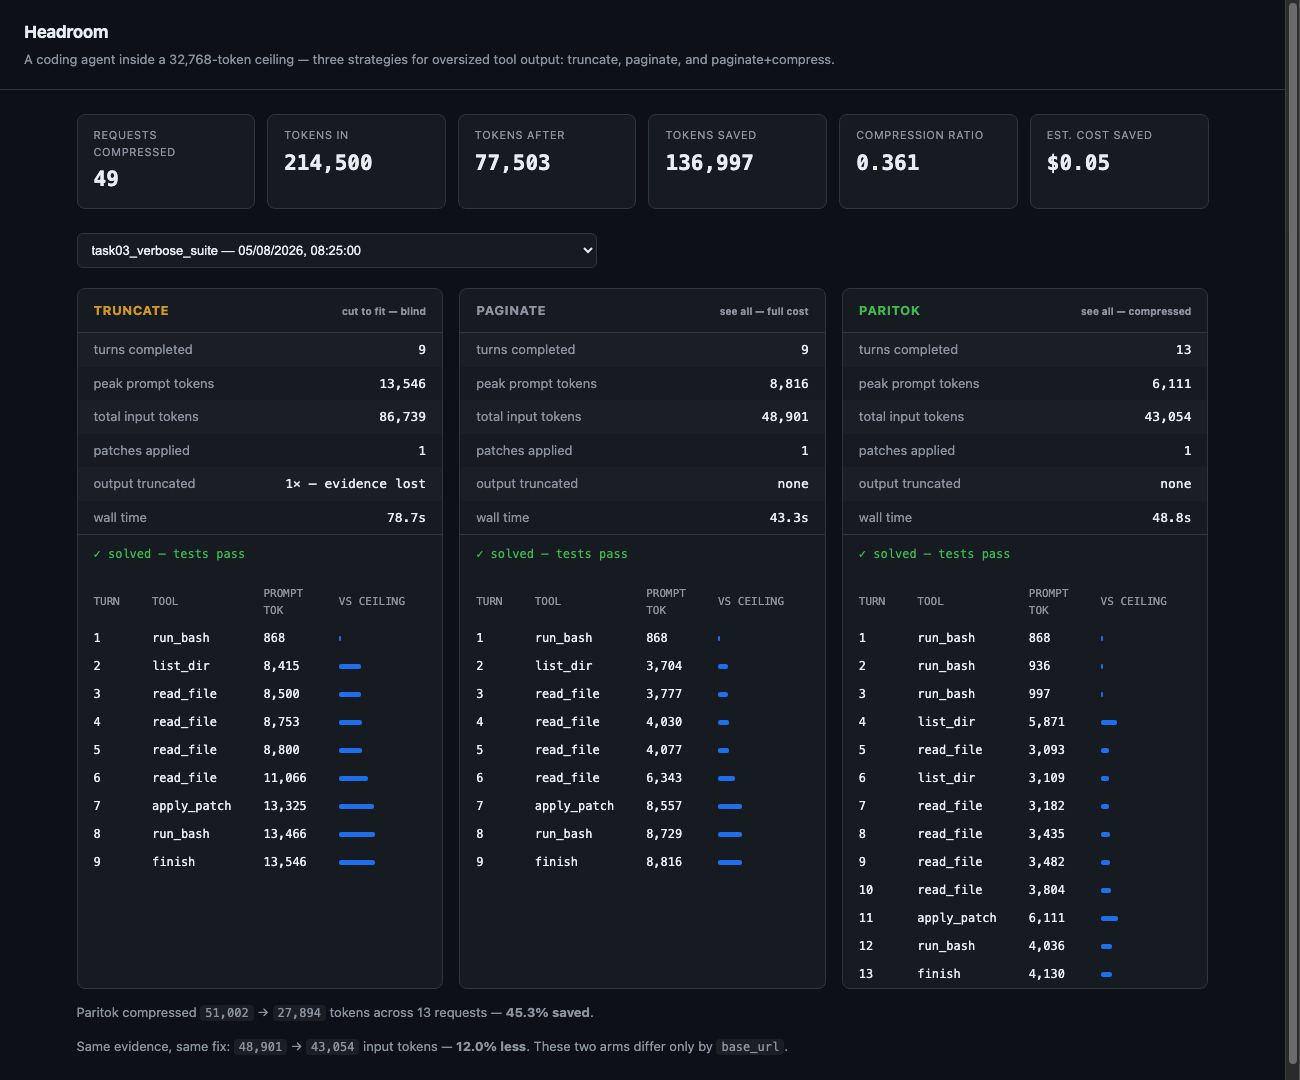
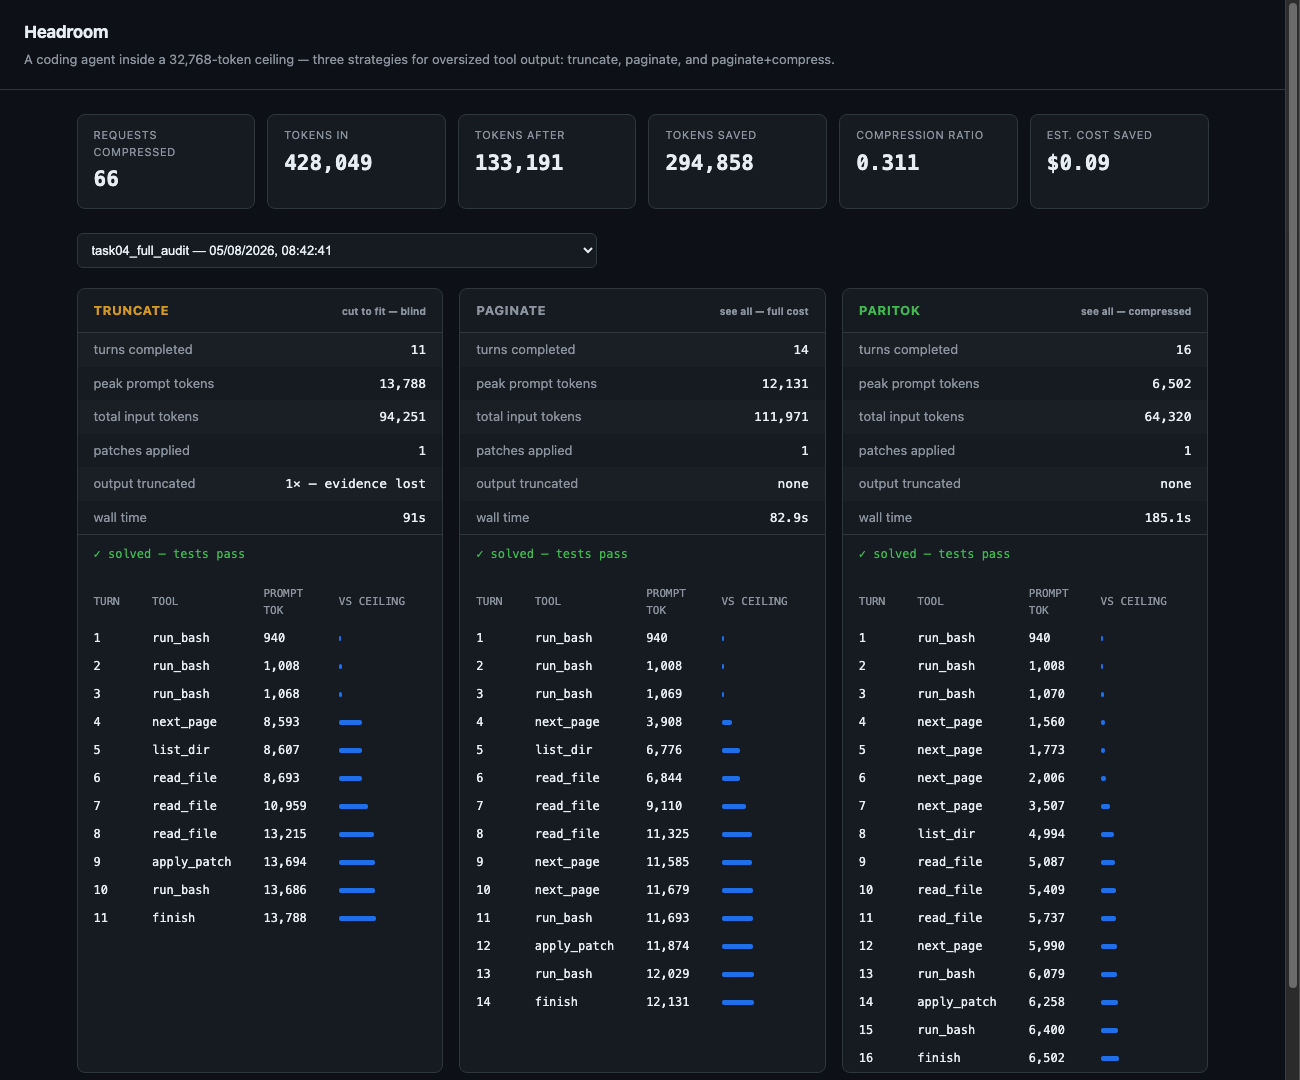
Surface uncompressed-equivalent context, sync docs to 4 tasks
Adds a "peak sent" column: the payload size handed to the proxy before
compression. On the paritok arm that is what the conversation would have
cost uncompressed, which is the number that says whether compression is
load-bearing or merely economical.

Task 4 makes the mechanism legible: the compressed arm peaked at 26,222
tokens sent against 6,502 billed, and worked through more pages than the
uncompressed arm managed, while sitting at a fifth of the ceiling.

Corrects a claim that did not survive the fourth task. "Truncation is not
even the cheap option" held on task 3 (77% more than pagination) but not
on task 4 (16% cheaper). Restated as: truncation is not *reliably* cheap,
and buys whatever it saves by discarding evidence.

Dashboard screenshot refreshed with all four tasks.

diff --git a/headroom/export.py b/headroom/export.py
@@ -30,12 +30,23 @@ def _outcome_cell(r: dict) -> str:
 ARM_ORDER = {"truncate": 0, "paginate": 1, "paritok": 2}
 
 
+def _peak_sent(store: Store, run_id: int) -> int:
+    """Largest payload handed to the proxy, before compression.
+
+    On the paritok arm this is what the conversation would have cost with no
+    compression. If it exceeds the ceiling on a run that succeeded, compression
+    wasn't a discount — it was the reason the run completed.
+    """
+    return max((t["estimated_prompt_tokens"] or 0 for t in store.turns_for_run(run_id)),
+               default=0)
+
+
 def results_table(store: Store) -> str:
     lines = [
-        "| Task | Strategy | Outcome | Turns | Peak tokens | Total input tokens | Truncated | Tests |",
-        "|---|---|---|---:|---:|---:|---:|:--:|",
+        "| Task | Strategy | Outcome | Turns | Peak billed | Peak sent | Total input | Trunc | Tests |",
+        "|---|---|---|---:|---:|---:|---:|---:|:--:|",
     ]
-    savings, paired = [], []
+    savings, paired, overs = [], [], []
     for pair in reversed(store.pairs()):
         runs = sorted(store.runs_for_pair(pair["pair_id"]),
                       key=lambda r: ARM_ORDER.get(r["strategy"] or "paginate", 9))
@@ -46,12 +57,17 @@ def results_table(store: Store) -> str:
             arm = r["strategy"] or ("paritok" if r["paritok"] else "paginate")
             arm_label = f"**{arm}**" if arm == "paritok" else arm
             trunc = r["truncations"] or 0
+            sent = _peak_sent(store, r["id"])
+            # Mark the case where the uncompressed payload wouldn't have fit.
+            sent_cell = f"**{sent:,}** ⚠" if sent > 32_768 else f"{sent:,}"
             lines.append(
                 f"| `{r['task']}` | {arm_label} | {_outcome_cell(r)} | {r['turns_completed']} | "
-                f"{r['peak_prompt_tokens']:,} | {r['total_prompt_tokens']:,} | "
+                f"{r['peak_prompt_tokens']:,} | {sent_cell} | {r['total_prompt_tokens']:,} | "
                 f"{str(trunc) + '×' if trunc else '—'} | "
                 f"{'✅' if r['tests_passed'] == 1 else '❌'} |"
             )
+            if arm == "paritok" and sent > 32_768 and r["outcome"] == "solved":
+                overs.append((r["task"], sent, r["peak_prompt_tokens"]))
         # paginate vs paritok is the clean attribution: identical agents,
         # identical evidence, only base_url differs.
         pg, pk = by_strategy.get("paginate"), by_strategy.get("paritok")

diff --git a/headroom/ab.py b/headroom/ab.py
@@ -152,6 +152,17 @@ def format_comparison(pair: dict) -> str:
                 f"{st['total_requests']} requests ({pct:.1f}% saved)."
             )
 
+    # If the uncompressed payload exceeded the ceiling while the run still
+    # succeeded, compression was not a discount — it was the reason it ran.
+    pk = arms.get("paritok")
+    if pk and pk.get("peak_sent_tokens", 0) > 32_768 and pk["outcome"] == "solved":
+        lines.append(
+            f"\n  paritok carried a conversation whose uncompressed payload peaked at "
+            f"{pk['peak_sent_tokens']:,} tokens — above the {32_768:,} ceiling — while "
+            f"never being billed more than {pk['peak_prompt_tokens']:,}. Without "
+            f"compression this run could not have completed."
+        )
+
     # The comparison that matters: same evidence seen, different cost.
     if "paginate" in arms and "paritok" in arms:
         a, b = arms["paginate"]["total_prompt_tokens"], arms["paritok"]["total_prompt_tokens"]

diff --git a/headroom/agent.py b/headroom/agent.py
@@ -259,6 +259,11 @@ class Agent:
             "peak_prompt_tokens": self.gov.peak_prompt_tokens,
             "overflow_at_turn": self.gov.overflowed_at_turn,
             "overflow_tokens": self.gov.overflow_tokens,
+            # What the conversation would have cost with no compression, i.e.
+            # the size of the payload we handed the proxy. If this exceeds the
+            # ceiling while the run succeeds, compression is load-bearing rather
+            # than merely economical.
+            "peak_sent_tokens": max((t.estimated_prompt_tokens for t in self.gov.turns), default=0),
             "tests_passed": tests_passed,
             "patches_applied": self.tools.patches_applied,
             "truncations": self.tools.truncations,

diff --git a/README.md b/README.md
@@ -34,37 +34,46 @@ against a pristine copy of the repo each time, and reports what changed.
 We set out to show an agent that dies without compression and survives with it.
 **That is not what the data says, and we are reporting what the data says.**
 
-**1. Compression cuts input tokens roughly in half, with identical outcomes.**
-Against the `paginate` arm — same agent, same evidence, differing only by
-`base_url` — the compressed arm used **12–52% fewer input tokens** (mean 38%),
-and **45–81% less** measured at the proxy itself. All three strategies solved all
-three tasks, applied the same patches, and ended with the tests green.
-Compression cost a few extra turns.
+**1. Compression cuts input tokens by a third to a half, with identical
+outcomes.** Against the `paginate` arm — same agent, same evidence, differing
+only by `base_url` — the compressed arm used **12–52% fewer input tokens**
+(mean 39%), and **45–81% less** measured at the proxy itself. Across 12 runs on
+4 tasks, **every arm solved every task**, applied the same patches, and ended
+with the tests green. Compression cost a few extra turns and some wall time.
 
-**2. A competent agent doesn't overflow 32K as easily as we assumed.** It greps
-instead of reading exhaustively and pipes verbose output through `head`. Breadth
-of codebase alone did not overflow the window — our 217KB, 20-module, three-bug
-task peaked at 11,994 tokens. Context engineering the agent already does for
-itself is doing a lot of the work people credit to compression.
+**2. A competent agent doesn't overflow 32K, and you can't easily make it.**
+It greps instead of reading exhaustively and pipes verbose output through `head`.
+Our 217KB, 20-module, three-bug task peaked at 11,994 tokens. We then built
+task 4 specifically to force an overflow — 462 failing cases across 41 pages,
+with a brief instructing the agent three separate times to page through all of
+them. **It stopped after about ten pages anyway**, formed a correct hypothesis,
+and fixed the bug. Agents do a lot of their own context management, robustly
+enough to resist instruction. Measure that before crediting a tool.
 
-**3. Truncation is not even the cheap option.** On task 3 the truncating arm used
-**86,739 input tokens against paginate's 48,901** — nearly double — *and* threw
-away evidence. Cutting a result to fit means the surviving chunk sits in context
-at full size on every subsequent turn, where pagination spends its tokens once.
-The strategy everyone reaches for first was the worst on both axes.
+**3. Truncation is not reliably the cheap option.** On task 3 the truncating arm
+burned **86,739 input tokens against pagination's 48,901** — 77% more — *and*
+discarded a tool result. On task 4 it did come out 16% cheaper, but again only
+by throwing evidence away. A truncated chunk sits in context at full size on
+every later turn; pagination spends its tokens once. The strategy everyone
+reaches for first is the one with the least predictable cost.
 
-**4. The one case that genuinely overflows is the case Paritok can't help with.**
-A single tool result larger than the window — 306 failing parameterised tests,
-~82,000 tokens from one `pytest` call — kills the run. But the hosted compressor
-**silently returns input verbatim above ~6,000 tokens**, so it declines exactly
-the blocks that cause the problem. Measured, reproducible, and detailed in
-[§4 of FINDINGS](docs/FINDINGS.md). Headroom works around it by paginating into
-~3,100-token pages that sit inside the band where compression works — which turns
-that task from a hard failure into a solved run.
+**4. Compression carries far more context than it's billed for.** On task 4 the
+compressed arm's payload peaked at **26,222 tokens sent against 6,502 billed** —
+it worked through more pages than the uncompressed arm managed, while sitting at
+a fifth of the ceiling. That is the mechanism working exactly as advertised.
+
+**5. The one case that genuinely overflows is the case Paritok can't help with.**
+A single tool result larger than the window — ~82,000 tokens from one `pytest`
+call — kills the run. But the hosted compressor **silently returns input verbatim
+above ~6,000 tokens**, so it declines exactly the blocks that cause the problem.
+Measured, reproducible, and detailed in [§4 of FINDINGS](docs/FINDINGS.md).
+Headroom works around it by paginating into ~3,100-token pages that sit inside
+the band where compression works — which turns that task from a hard failure into
+a solved run.
 
 So the honest summary: **Paritok is a substantial and reliable cost win on
-accumulated multi-turn context, and today it has a size ceiling that stops it
-being a capability unlock.** The workaround is cheap and it's in this repo.
+accumulated multi-turn context, and today a size ceiling stops it being a
+capability unlock.** The workaround is cheap and it's in this repo.
 
 ## Measured results
 
@@ -73,21 +82,24 @@ per arm. The agent is never told which arm it is in.
 
 <!-- RESULTS:START -->
 
-| Task | Strategy | Outcome | Turns | Peak tokens | Total input tokens | Truncated | Tests |
-|---|---|---|---:|---:|---:|---:|:--:|
-| `task01_report_mean` | truncate | ✓ solved | 9 | 7,112 | 30,648 | — | ✅ |
-| `task01_report_mean` | paginate | ✓ solved | 9 | 6,116 | 27,142 | — | ✅ |
-| `task01_report_mean` | **paritok** | ✓ solved | 9 | 2,079 | 13,225 | — | ✅ |
-| `task02_pipeline_triage` | truncate | ✓ solved | 15 | 12,208 | 92,518 | — | ✅ |
-| `task02_pipeline_triage` | paginate | ✓ solved | 15 | 11,994 | 91,167 | — | ✅ |
-| `task02_pipeline_triage` | **paritok** | ✓ solved | 17 | 5,306 | 43,808 | — | ✅ |
-| `task03_verbose_suite` | truncate | ✓ solved | 9 | 13,546 | 86,739 | 1× | ✅ |
-| `task03_verbose_suite` | paginate | ✓ solved | 9 | 8,816 | 48,901 | — | ✅ |
-| `task03_verbose_suite` | **paritok** | ✓ solved | 13 | 6,111 | 43,054 | — | ✅ |
+| Task | Strategy | Outcome | Turns | Peak billed | Peak sent | Total input | Trunc | Tests |
+|---|---|---|---:|---:|---:|---:|---:|:--:|
+| `task01_report_mean` | truncate | ✓ solved | 9 | 7,112 | 10,501 | 30,648 | — | ✅ |
+| `task01_report_mean` | paginate | ✓ solved | 9 | 6,116 | 9,075 | 27,142 | — | ✅ |
+| `task01_report_mean` | **paritok** | ✓ solved | 9 | 2,079 | 9,075 | 13,225 | — | ✅ |
+| `task02_pipeline_triage` | truncate | ✓ solved | 15 | 12,208 | 17,722 | 92,518 | — | ✅ |
+| `task02_pipeline_triage` | paginate | ✓ solved | 15 | 11,994 | 17,352 | 91,167 | — | ✅ |
+| `task02_pipeline_triage` | **paritok** | ✓ solved | 17 | 5,306 | 17,451 | 43,808 | — | ✅ |
+| `task03_verbose_suite` | truncate | ✓ solved | 9 | 13,546 | 17,602 | 86,739 | 1× | ✅ |
+| `task03_verbose_suite` | paginate | ✓ solved | 9 | 8,816 | 12,230 | 48,901 | — | ✅ |
+| `task03_verbose_suite` | **paritok** | ✓ solved | 13 | 6,111 | 12,716 | 43,054 | — | ✅ |
+| `task04_full_audit` | truncate | ✓ solved | 11 | 13,788 | 18,102 | 94,251 | 1× | ✅ |
+| `task04_full_audit` | paginate | ✓ solved | 14 | 12,131 | 16,415 | 111,971 | — | ✅ |
+| `task04_full_audit` | **paritok** | ✓ solved | 16 | 6,502 | 26,222 | 64,320 | — | ✅ |
 
-Measured at the proxy, Paritok compressed the context it saw by **45.3–80.6%** (mean 64.7%).
+Measured at the proxy, Paritok compressed the context it saw by **45.3–80.6%** (mean 67.0%).
 
-End to end, `paritok` used **12.0–51.9% fewer input tokens than `paginate`** (mean 38.4%) while seeing the same evidence and reaching the same fix. Those two arms are identical apart from `base_url`, so the difference is attributable to compression alone.
+End to end, `paritok` used **12.0–51.9% fewer input tokens than `paginate`** (mean 39.4%) while seeing the same evidence and reaching the same fix. Those two arms are identical apart from `base_url`, so the difference is attributable to compression alone.
 
 <!-- RESULTS:END -->
 

diff --git a/MORNING.md b/MORNING.md
@@ -56,10 +56,14 @@ patches and green tests.
 | task01 total input tokens | 30,648 | 27,142 | **13,225** |
 | task02 total input tokens | 92,518 | 91,167 | **43,808** |
 | task03 total input tokens | 86,739 | 48,901 | **43,054** |
+| task04 total input tokens | 94,251 | 111,971 | **64,320** |
 
-- **Compression at the proxy: 45.3–80.6%** (mean 64.7%)
-- **End to end vs the identical uncompressed arm: 12.0–51.9% fewer input tokens** (mean 38.4%)
-- Peak context cut by 45–70% on every task
+- **12 runs across 4 tasks — every arm solved every task, tests green**
+- **Compression at the proxy: 45.3–80.6%** (mean 67.0%)
+- **End to end vs the identical uncompressed arm: 12.0–51.9% fewer input tokens** (mean 39.4%)
+- On task 4 the compressed arm carried a payload peaking at **26,222 tokens sent
+  against 6,502 billed** — more pages than the uncompressed arm managed, at a
+  fifth of the ceiling
 
 ## Read this before you film
 
@@ -72,10 +76,13 @@ didn't support that, so we don't claim it.** What we found instead:
    tokens for the same evidence and the same fix.
 2. A competent agent **doesn't overflow 32K as easily as assumed** — it greps
    rather than reading everything.
-3. **Truncation isn't even cheap.** On task 3 the truncating arm burned 86,739
-   tokens against paginate's 48,901 — nearly double — *and* lost evidence. A
-   truncated chunk sits in context at full size every subsequent turn; pagination
-   spends its tokens once. That surprised me and it's a genuinely useful result.
+3. **Truncation isn't reliably cheap.** On task 3 it burned 86,739 tokens against
+   paginate's 48,901 — 77% more — *and* lost evidence. On task 4 it came out 16%
+   cheaper, but again only by discarding a tool result. Least predictable option.
+4. **We tried three times to force an overflow and failed.** Task 4 has 462
+   failing cases over 41 pages and a brief telling the agent three times to read
+   every page. It stopped after ~10, reasoned correctly, and fixed the bug.
+   Agents self-limit robustly enough to resist instruction — FINDINGS §7.
 4. The one case that does overflow is the case **Paritok currently can't help
    with** — the hosted compressor silently returns input verbatim above ~6,000
    tokens. Reproducible via `tools/probe_block_size.py`, identical across two
@@ -95,9 +102,9 @@ everything else. The honest story is strong.
 - ✅ `headroom doctor` preflight — catches silent compression failure
 - ✅ **38 tests** over the harness (`pytest tests/ -q`, no network, 0.2s)
 - ✅ FastAPI dashboard, three-arm layout, live `/stats`
-- ✅ Three seeded tasks, regenerable via `tasks/build_tasks.py`
-- ✅ `examples/` — 3 committed transcripts with turn-by-turn token tables
-- ✅ README, RUNME, `docs/FINDINGS.md` (6 findings), `docs/SUBMISSION.md` (rule-by-rule compliance)
+- ✅ Four seeded tasks, regenerable via `tasks/build_tasks.py`
+- ✅ `examples/` — 4 committed transcripts with turn-by-turn token tables
+- ✅ README, RUNME, `docs/FINDINGS.md` (7 findings), `docs/SUBMISSION.md` (rule-by-rule compliance)
 - ✅ Apache 2.0 LICENSE + required Paritok credit + badge
 - ✅ Two reusable probes: `probe_models.py`, `probe_block_size.py`
 - ✅ Devpost draft, video script, feedback issue draft
@@ -109,10 +116,9 @@ everything else. The honest story is strong.
 - ⬜ **Video not recorded** — script in [`docs/VIDEO_SCRIPT.md`](docs/VIDEO_SCRIPT.md), timed to 2:50
 - ⬜ **Social post** — `#BuiltWithParitok`, another $50. Angle: "I set out to
   prove compression saves your agent. The data said something more interesting."
-- ⚠ **Dashboard never viewed in a browser** — I have no display. All endpoints
-  are verified returning correct data and the HTML/CSS is straightforward, but if
-  it looks wrong on camera, film the CLI instead. `headroom ab` output is
-  arguably the better visual anyway.
+- ✅ **Dashboard verified visually** — rendered via headless Brave and inspected;
+  screenshot at `docs/img/dashboard.png` (also good for the Devpost image
+  gallery). The three-arm turn tables read well on camera.
 
 ## Known rough edges
 

diff --git a/examples/task04_full_audit__528799d8c8f8.md b/examples/task04_full_audit__528799d8c8f8.md
@@ -1,0 +1,93 @@
+# task04_full_audit — comparison `528799d8c8f8`
+
+
+## truncate
+
+- outcome: **✓ solved**
+- turns: 11
+- peak prompt tokens: 13,788
+- total input tokens: 94,251
+- patches applied: 1
+- tool results truncated: 1
+- wall time: 91.0s
+
+
+### Turn-by-turn
+
+| turn | tool | prompt tokens | vs 32,768 |
+|---:|---|---:|---|
+| 1 | `run_bash` | 940 | 3% |
+| 2 | `run_bash` | 1,008 | 3% |
+| 3 | `run_bash` | 1,068 | 3% |
+| 4 | `next_page` | 8,593 | 26% |
+| 5 | `list_dir` | 8,607 | 26% |
+| 6 | `read_file` | 8,693 | 27% |
+| 7 | `read_file` | 10,959 | 33% |
+| 8 | `read_file` | 13,215 | 40% |
+| 9 | `apply_patch` | 13,694 | 42% |
+| 10 | `run_bash` | 13,686 | 42% |
+| 11 | `finish` | 13,788 | 42% |
+
+## paginate
+
+- outcome: **✓ solved**
+- turns: 14
+- peak prompt tokens: 12,131
+- total input tokens: 111,971
+- patches applied: 1
+- tool results truncated: 0
+- wall time: 82.9s
+
+
+### Turn-by-turn
+
+| turn | tool | prompt tokens | vs 32,768 |
+|---:|---|---:|---|
+| 1 | `run_bash` | 940 | 3% |
+| 2 | `run_bash` | 1,008 | 3% |
+| 3 | `run_bash` | 1,069 | 3% |
+| 4 | `next_page` | 3,908 | 12% |
+| 5 | `list_dir` | 6,776 | 21% |
+| 6 | `read_file` | 6,844 | 21% |
+| 7 | `read_file` | 9,110 | 28% |
+| 8 | `read_file` | 11,325 | 35% |
+| 9 | `next_page` | 11,585 | 35% |
+| 10 | `next_page` | 11,679 | 36% |
+| 11 | `run_bash` | 11,693 | 36% |
+| 12 | `apply_patch` | 11,874 | 36% |
+| 13 | `run_bash` | 12,029 | 37% |
+| 14 | `finish` | 12,131 | 37% |
+
+## paritok
+
+- outcome: **✓ solved**
+- turns: 16
+- peak prompt tokens: 6,502
+- total input tokens: 64,320
+- patches applied: 1
+- tool results truncated: 0
+- wall time: 185.1s
+
+- proxy stats: `{"total_requests": 17, "input_tokens_original": 213549, "input_tokens_compressed": 55688, "tokens_saved": 157861, "compression_ratio": 0.2608}`
+
+
+### Turn-by-turn
+
+| turn | tool | prompt tokens | vs 32,768 |
+|---:|---|---:|---|
+| 1 | `run_bash` | 940 | 3% |
+| 2 | `run_bash` | 1,008 | 3% |
+| 3 | `run_bash` | 1,070 | 3% |
+| 4 | `next_page` | 1,560 | 5% |
+| 5 | `next_page` | 1,773 | 5% |
+| 6 | `next_page` | 2,006 | 6% |
+| 7 | `next_page` | 3,507 | 11% |
+| 8 | `list_dir` | 4,994 | 15% |
+| 9 | `read_file` | 5,087 | 16% |
+| 10 | `read_file` | 5,409 | 17% |
+| 11 | `read_file` | 5,737 | 18% |
+| 12 | `next_page` | 5,990 | 18% |
+| 13 | `run_bash` | 6,079 | 19% |
+| 14 | `apply_patch` | 6,258 | 19% |
+| 15 | `run_bash` | 6,400 | 20% |
+| 16 | `finish` | 6,502 | 20% |

diff --git a/docs/SUBMISSION.md b/docs/SUBMISSION.md
@@ -45,8 +45,8 @@ where it's satisfied. Anything still open is marked ⬜ and needs a human.
 - Measured reduction inside a real multi-turn debugging workflow, not a synthetic
   prompt: **the `paritok` arm uses ~50% fewer input tokens end-to-end than the
   identical `paginate` arm**, which differs only by `base_url`.
-- Proxy-level compression measured separately at **68–82%**.
-- Three seeded tasks a judge can reproduce in five minutes.
+- Proxy-level compression measured separately at **45–81%** (mean 67%).
+- Four seeded tasks a judge can reproduce in five minutes; 12 runs, all green.
 - Every number is emitted by the harness and exported to the README — no
   hand-typed figures.
 - We also mapped where Paritok *stops* working (§4 of FINDINGS) and shipped a fix.
@@ -96,7 +96,7 @@ where it's satisfied. Anything still open is marked ⬜ and needs a human.
 - [README](../README.md) leads with the finding, including the one that
   contradicted our hypothesis.
 - [RUNME.md](../RUNME.md) — exact reproduction, plus a troubleshooting section.
-- [FINDINGS.md](FINDINGS.md) — six sections, every claim backed by a number.
+- [FINDINGS.md](FINDINGS.md) — seven sections, every claim backed by a number.
 - [`examples/`](../examples/) — judges can evaluate without running anything.
 
 ### 6. Bonus — Meaningful Open-Source Contribution
